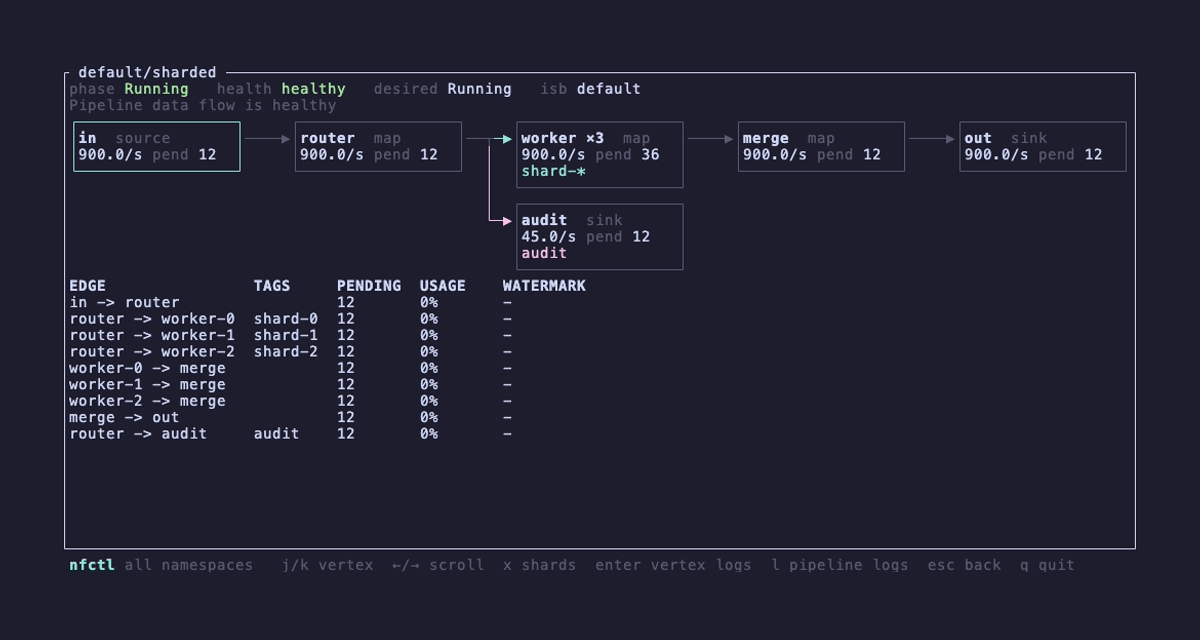
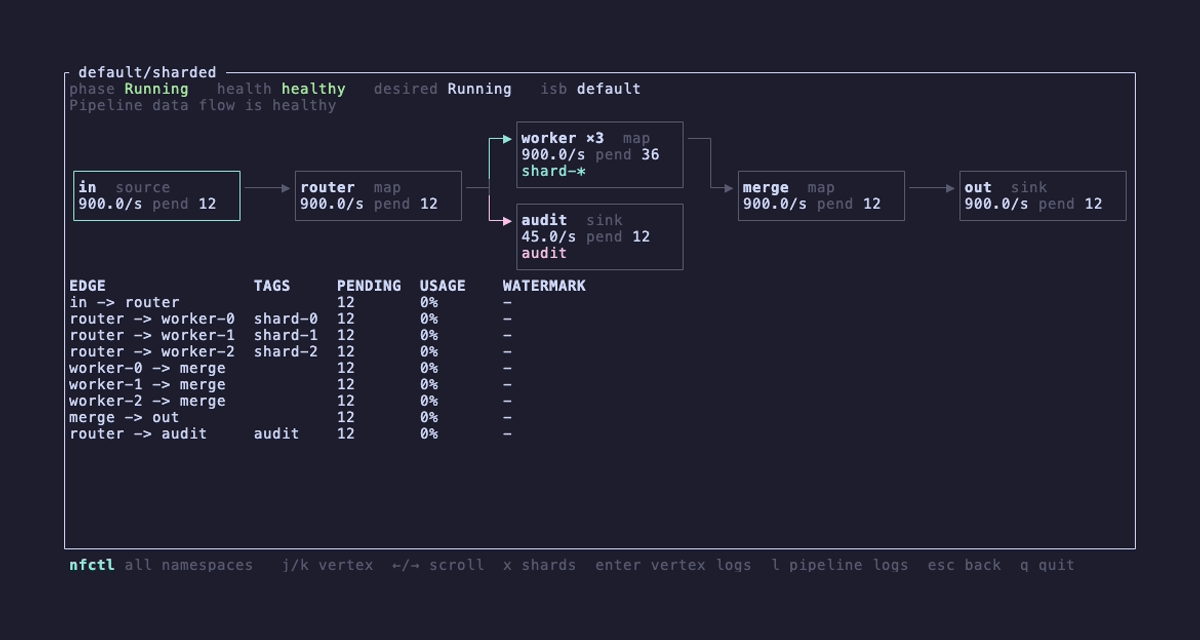
feat(graph): edges meet cards mid-row; one track per colour
Arrows now attach on a card's middle row instead of its first content
row. Edges that share a source or target share a track only when they
also share a colour, so a tagged fan-out leaves as parallel coloured
lines that peel off one by one, where the fan used to leave as one grey trunk.

diff --git a/crates/nfctl-graph/src/layout/route.rs b/crates/nfctl-graph/src/layout/route.rs
@@ -63,7 +63,8 @@ fn geometry(l: &Layered, badges: &HashMap<NodeId, Vec<Badge>>, opts: LayoutOptio
             match n {
                 LNode::Real(id) => {
                     let h = opts.card_h + u16::from(badges.contains_key(&id));
-                    geo.attach.insert(n, (c, y + 1));
+                    // Edges meet the card on its middle row.
+                    geo.attach.insert(n, (c, y + i32::from(h) / 2));
                     geo.cards.push(CardPos {
                         node: id,
                         col: c,
@@ -127,6 +128,7 @@ fn spans(
     l: &Layered,
     geo: &Geometry,
     lane: &HashMap<NodeId, i32>,
+    colour: &[Option<EdgeColour>],
 ) -> Spans {
     let cols = l.columns.len();
     let mut per_gap: Vec<Vec<Span>> = vec![Vec::new(); cols.saturating_sub(1)];
@@ -148,6 +150,7 @@ fn spans(
                     hi: y0.max(y1),
                     y_in: y0,
                     y_out: y1,
+                    colour: colour[s.edge.0 as usize],
                     src: key(s.from),
                     dst: key(s.to),
                 },
@@ -171,6 +174,7 @@ fn spans(
                     hi: ly,
                     y_in: yu,
                     y_out: ly,
+                    colour: colour[ei],
                     src: LANE_OUT,
                     dst: e.from.0,
                 },
@@ -185,6 +189,7 @@ fn spans(
                     hi: ly,
                     y_in: ly,
                     y_out: yv,
+                    colour: colour[ei],
                     src: e.to.0,
                     dst: LANE_IN,
                 },
@@ -336,7 +341,7 @@ pub(crate) fn build(
     let card_w = i32::from(opts.card_w);
     let geo = geometry(layered, badges, opts);
     let lane = lanes(g, ranked, geo.cards_h);
-    let sp = spans(g, ranked, layered, &geo, &lane);
+    let sp = spans(g, ranked, layered, &geo, &lane, edge_colour);
     let margin = if g
         .edges
         .iter()

diff --git a/crates/nfctl-tui/examples/gallery.rs b/crates/nfctl-tui/examples/gallery.rs
@@ -323,8 +323,8 @@ window.onbeforeunload=()=>{if(pending)flush();};
 const nameOf=f=>(f.closest('section').querySelector('h2').firstChild.textContent+' '+f.dataset.tab).replace(/[^a-z0-9]+/gi,'-');
 function exportPng(f){const o=render(f),url=o.toDataURL('image/png');
  if(online)o.toBlob(b=>fetch(API+'/png/'+nameOf(f)+'.png',{method:'POST',body:b}).then(()=>setStatus('PNG saved to target/gallery/png/')).catch(()=>dl(nameOf(f)+'.png',url)));else dl(nameOf(f)+'.png',url);}
-function exportAll(){let n=0;document.querySelectorAll('.frame').forEach(f=>{const d=load(f);if(!d.strokes.length&&!d.note)return;const shown=f.classList.contains('on');if(!shown){f.classList.add('on');fit(f);}
- setTimeout(()=>{exportPng(f);if(!shown)f.classList.remove('on');},150*n++);});if(!n)alert('nothing annotated yet');}
+function exportAll(){let n=0;document.querySelectorAll('.frame').forEach(f=>{const d=load(f);if(!d.strokes.length&&!d.note)return;const sec=f.closest('section'),secShown=sec.style.display!=='none',shown=f.classList.contains('on');
+ setTimeout(()=>{sec.style.display='block';f.classList.add('on');fit(f);exportPng(f);if(!shown)f.classList.remove('on');if(!secShown)sec.style.display='none';},200*n++);});if(!n)alert('nothing annotated yet');}
 show(location.hash.slice(1)||items[0].dataset.id);
 window.onhashchange=()=>show(location.hash.slice(1));
 window.onresize=()=>document.querySelectorAll('.frame.on').forEach(fit);

diff --git a/crates/nfctl-graph/src/layout/tracks.rs b/crates/nfctl-graph/src/layout/tracks.rs
@@ -1,8 +1,10 @@
 //! Pack the vertical runs in one gap onto tracks: two runs share a track when
-//! they do not overlap, or share a source, or share a target. Then order the
+//! they do not overlap, or when they share a source or a target *and* a
+//! colour, so a tagged fan-out leaves as parallel coloured lines rather than
+//! one grey trunk. Then order the
 //! tracks left to right so horizontals cross as few verticals as possible.
 
-use super::EdgeId;
+use super::{EdgeColour, EdgeId};
 
 #[derive(Debug, Clone, Copy)]
 pub(crate) struct Span {
@@ -13,6 +15,7 @@ pub(crate) struct Span {
     /// Row of the horizontal arriving from the left, and leaving to the right.
     pub y_in: i32,
     pub y_out: i32,
+    pub colour: Option<EdgeColour>,
     pub src: u32,
     pub dst: u32,
 }
@@ -26,8 +29,11 @@ pub(crate) fn pack(spans: &[Span]) -> (Vec<usize>, usize) {
     for i in order {
         let s = spans[i];
         let compatible = |t: &Vec<Span>| {
-            t.iter()
-                .all(|o| o.src == s.src || o.dst == s.dst || s.hi + 1 < o.lo || o.hi + 1 < s.lo)
+            t.iter().all(|o| {
+                ((o.src == s.src || o.dst == s.dst) && o.colour == s.colour)
+                    || s.hi + 1 < o.lo
+                    || o.hi + 1 < s.lo
+            })
         };
         let slot = tracks.iter().position(compatible).unwrap_or_else(|| {
             tracks.push(Vec::new());

diff --git a/crates/nfctl-graph/src/layout/tests.rs b/crates/nfctl-graph/src/layout/tests.rs
@@ -34,13 +34,14 @@ fn check_endpoints(g: &ViewGraph, l: &Layout) {
         let to = l.card(e.to).unwrap();
         let first = r.polyline[0];
         let last = *r.polyline.last().unwrap();
+        let mid = |c: &CardPos| c.y + i32::from(c.h) / 2;
         assert_eq!(
             first,
-            (from.x + i32::from(OPTS.card_w), from.y + 1),
+            (from.x + i32::from(OPTS.card_w), mid(from)),
             "start of {:?}",
             r.edge
         );
-        assert_eq!(last, (to.x - 1, to.y + 1), "end of {:?}", r.edge);
+        assert_eq!(last, (to.x - 1, mid(to)), "end of {:?}", r.edge);
         assert_eq!(r.head, last);
         for w in r.polyline.windows(2) {
             assert!(w[0].0 == w[1].0 || w[0].1 == w[1].1, "orthogonal");
@@ -56,7 +57,7 @@ fn linear_chain_is_one_row() {
     assert_eq!(l.height, 4);
     assert_eq!(l.lanes, 0);
     check_endpoints(&g, &l);
-    assert_eq!(l.routes[0].polyline, vec![(12, 1), (16, 1)]);
+    assert_eq!(l.routes[0].polyline, vec![(12, 2), (16, 2)]);
 }
 
 #[test]

diff --git a/crates/nfctl-graph/tests/corpus.rs b/crates/nfctl-graph/tests/corpus.rs
@@ -50,10 +50,14 @@ fn corpus_imports_and_renders() {
                     let (from, to) = (l.card(e.from).unwrap(), l.card(e.to).unwrap());
                     assert_eq!(
                         r.polyline[0],
-                        (from.x + 18, from.y + 1),
+                        (from.x + 18, from.y + i32::from(from.h) / 2),
                         "{name}/{pl}: route start"
                     );
-                    assert_eq!(r.head, (to.x - 1, to.y + 1), "{name}/{pl}: route head");
+                    assert_eq!(
+                        r.head,
+                        (to.x - 1, to.y + i32::from(to.h) / 2),
+                        "{name}/{pl}: route head"
+                    );
                     assert_eq!(
                         r.colour.is_some(),
                         !e.tags.is_empty(),
